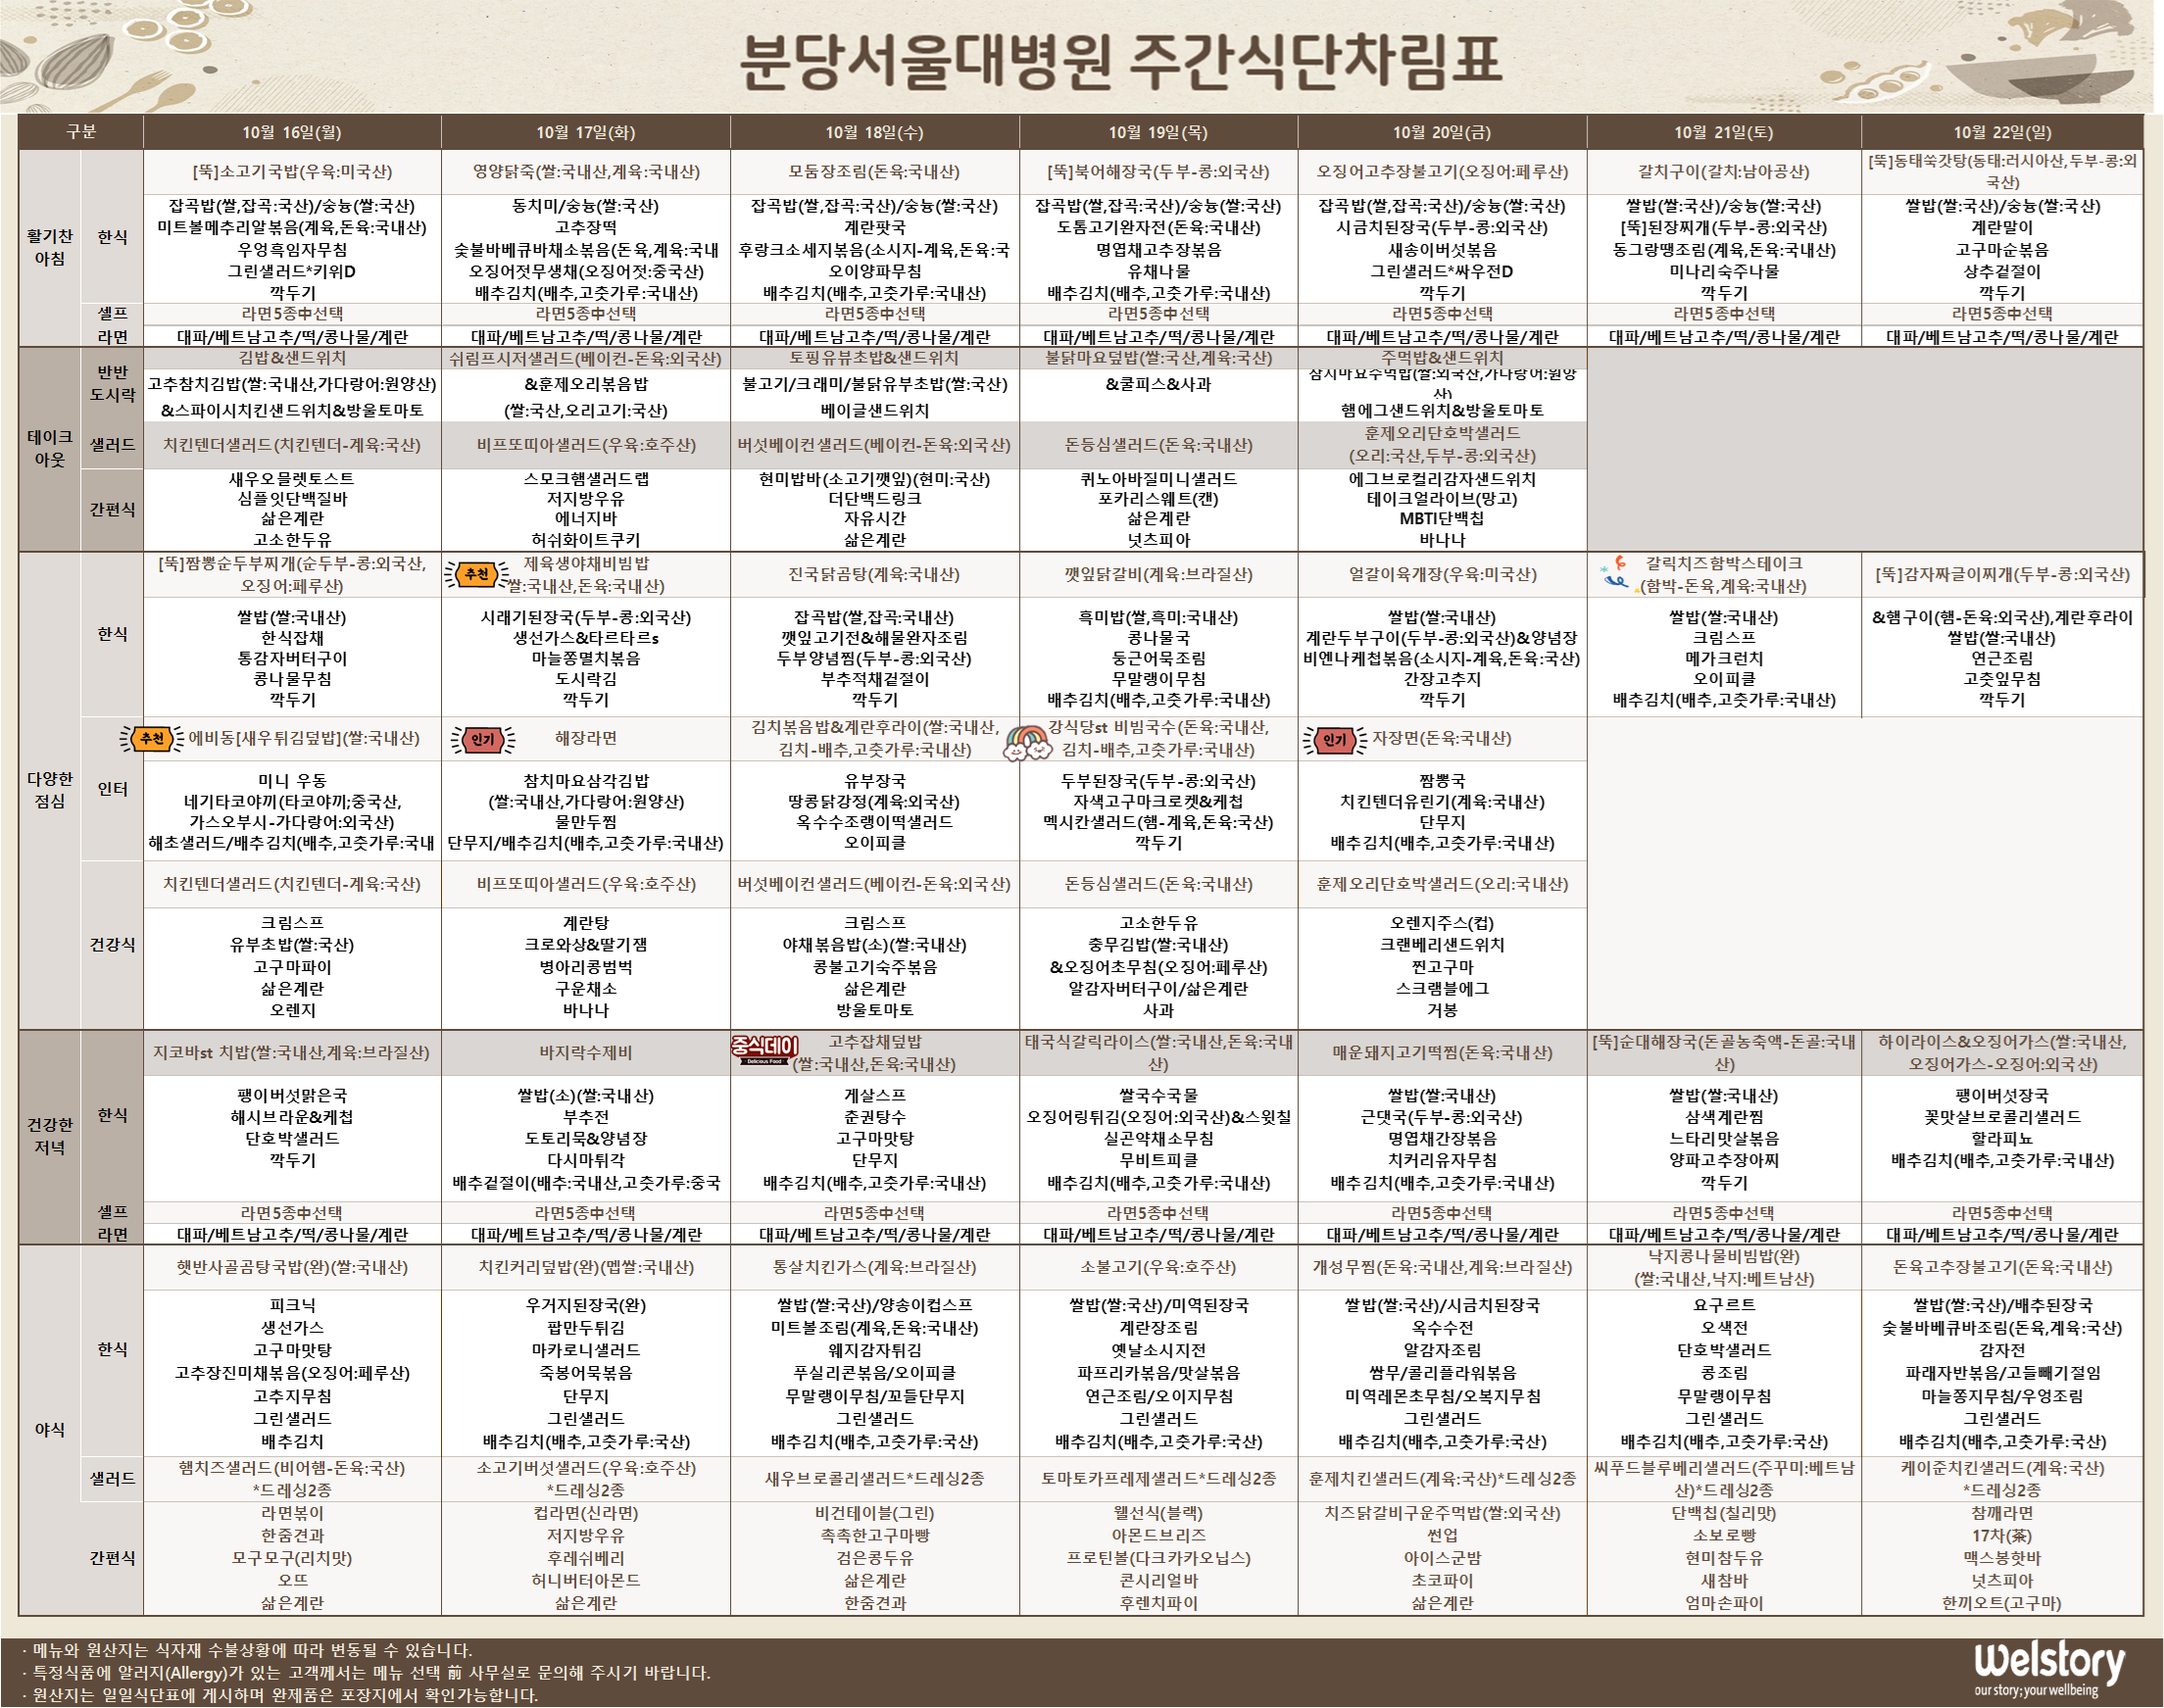
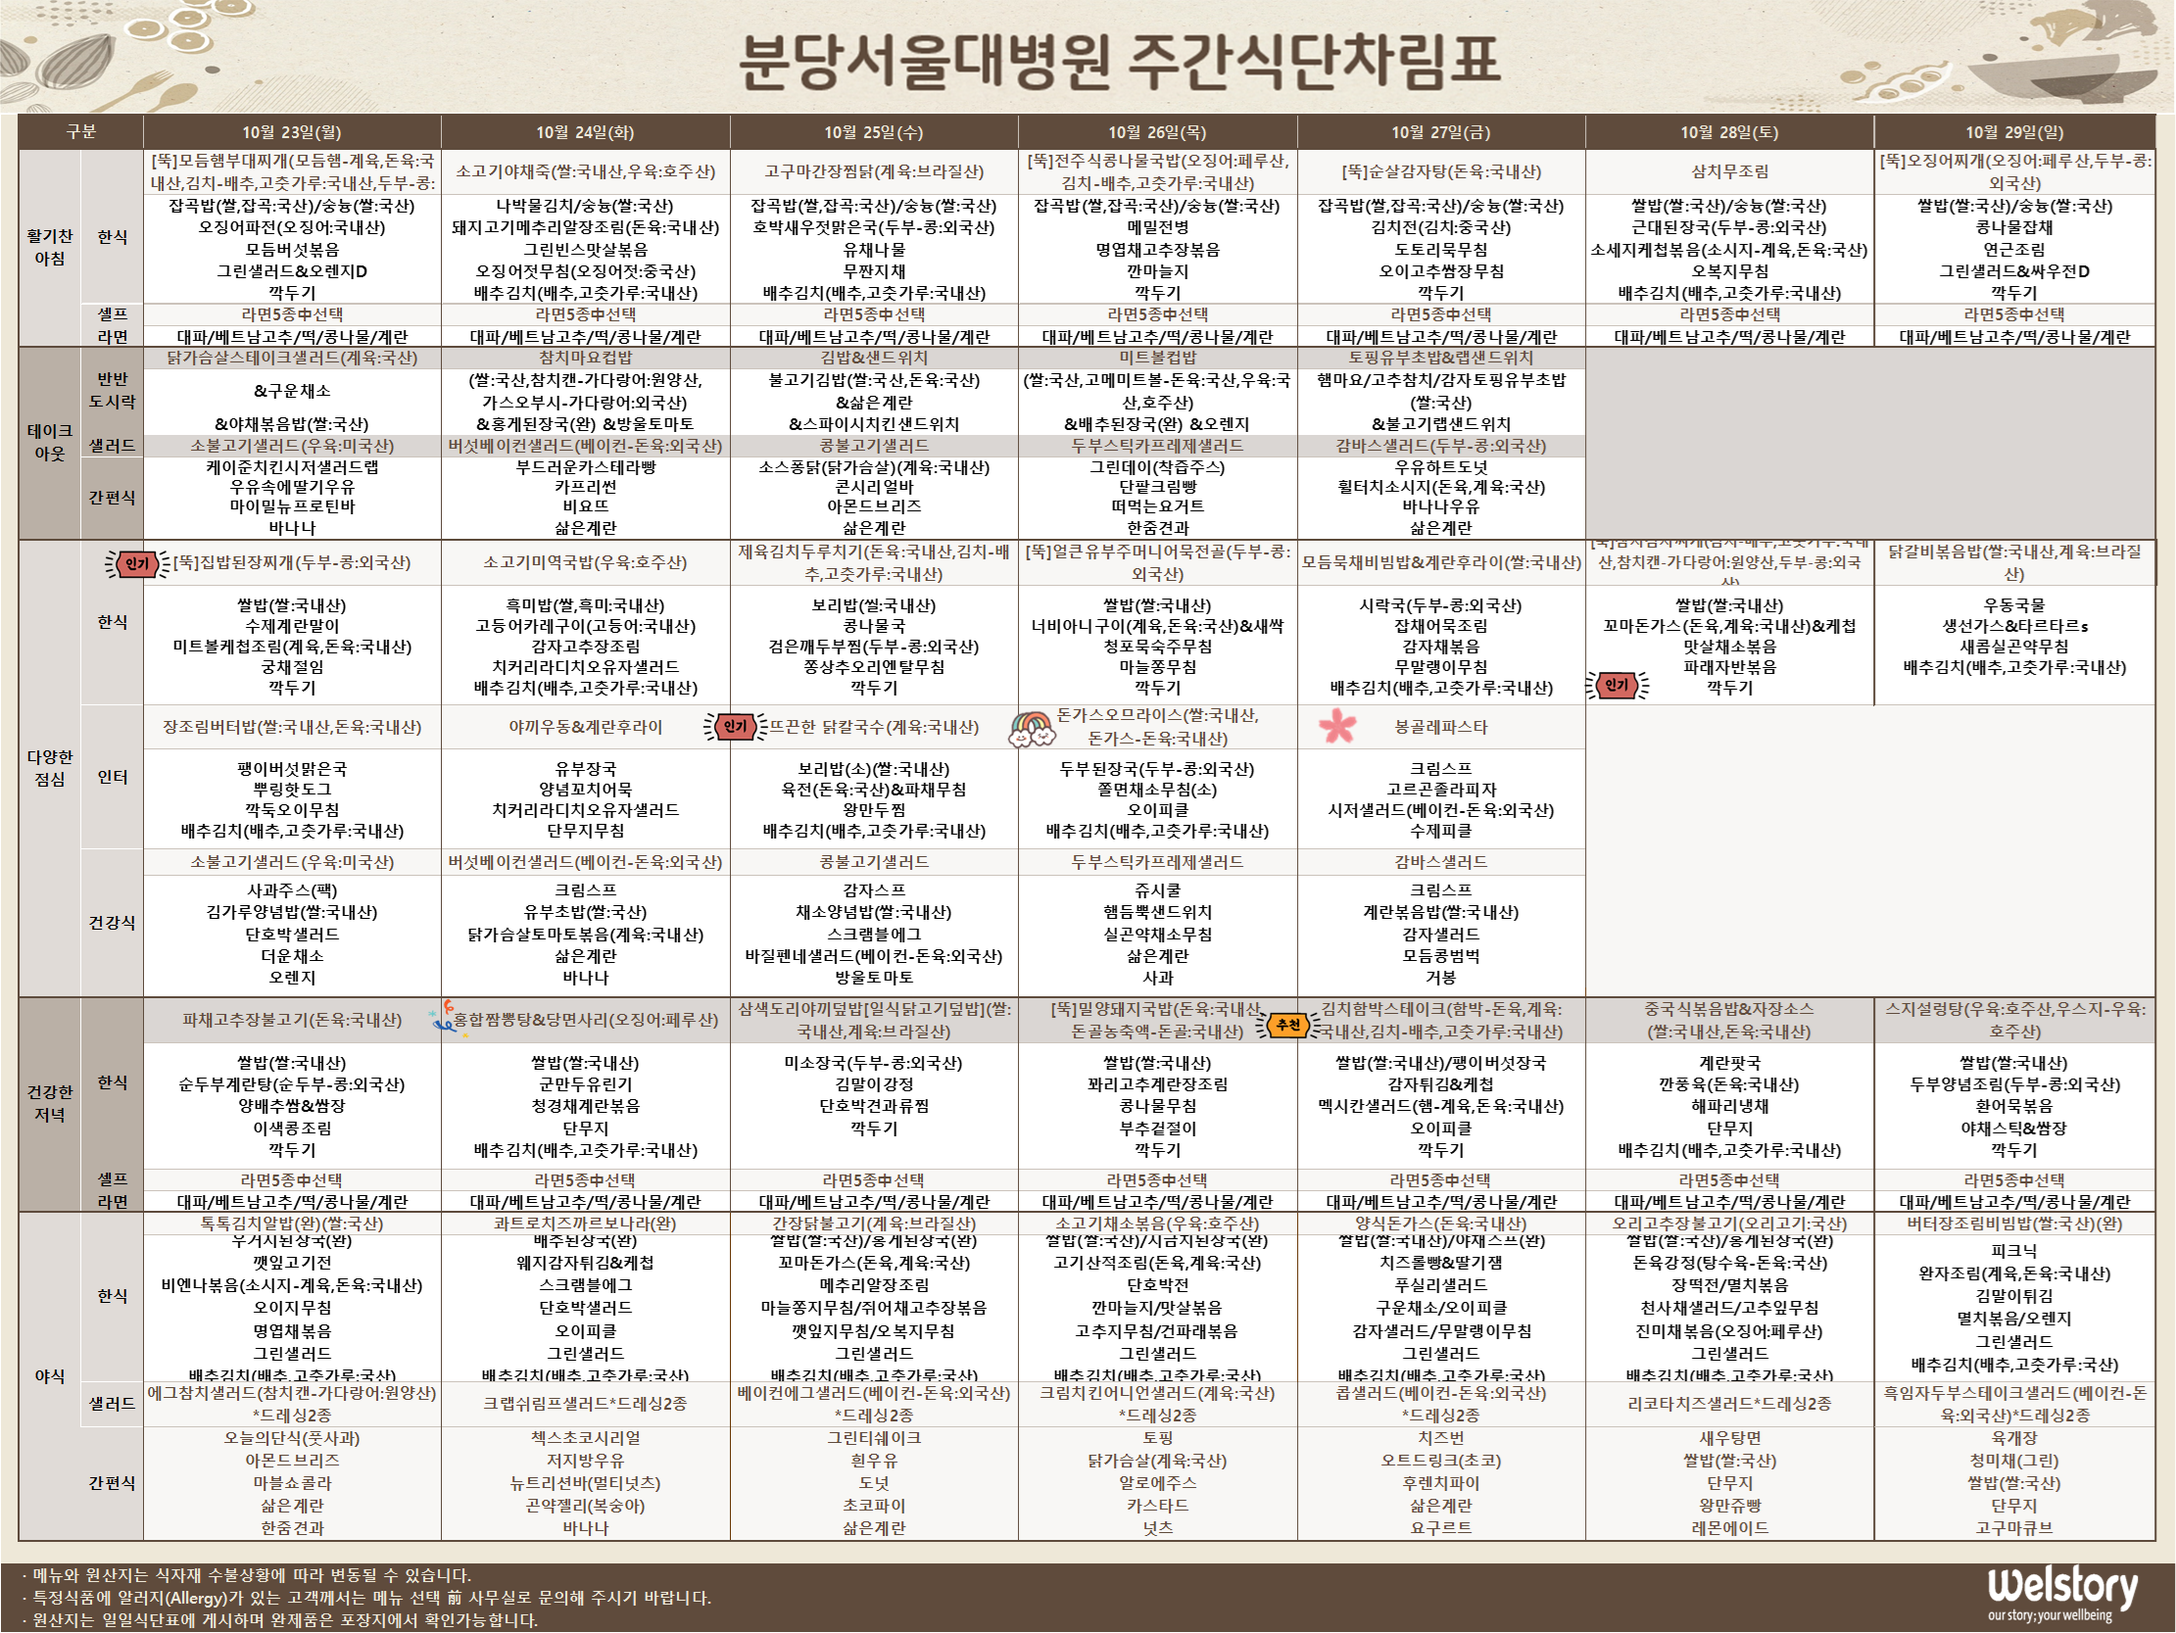
Add files via upload

Changed region(s): [[0.0, 0.0, 1.0, 0.9982], [0.0, 0.6551, 0.0625, 0.6863]]

diff --git a/6/index.html b/6/index.html
@@ -12,12 +12,8 @@
 <h2> 메뉴 업데이트는 주인장 여유가 되면 합니다. (이미지 확대해서 보세요) <br> </h2>
 
 <br>
-<h1> 10월 3주차 </h1>
-<img src="수술.png" width="100%">
-
-<br>
 <h1> 10월 4주차 </h1>
-<img src="수술_1.png" width="100%">
+<img src="수술.png" width="100%">
 
 <h6> Last update 2023/10/20  </h6>  
 <h1 >맛있게 드세요.  </h1> 

diff --git a/1/index.html b/1/index.html
@@ -13,12 +13,8 @@
 
 
 <br>
-<h1> 10월 3주차  </h1>
-<img src="1동.png" width="100%">
-
-<br>
 <h1> 10월 4주차  </h1>
-<img src="1동_1.png" width="100%">
+<img src="1동.png" width="100%">
 
 
 <h6> Last update 2023/10/20  </h6>  

diff --git a/2/index.html b/2/index.html
@@ -13,12 +13,8 @@
 
 
 <br>
-<h1> 10월 3주차  </h1>
-<img src="HIP.png" width="50%">
-
-<br>
 <h1> 10월 4주차  </h1>
-<img src="HIP_1.png" width="50%">
+<img src="HIP.png" width="50%">
 
 
 <h6> Last update 2023/10/20  </h6>  
